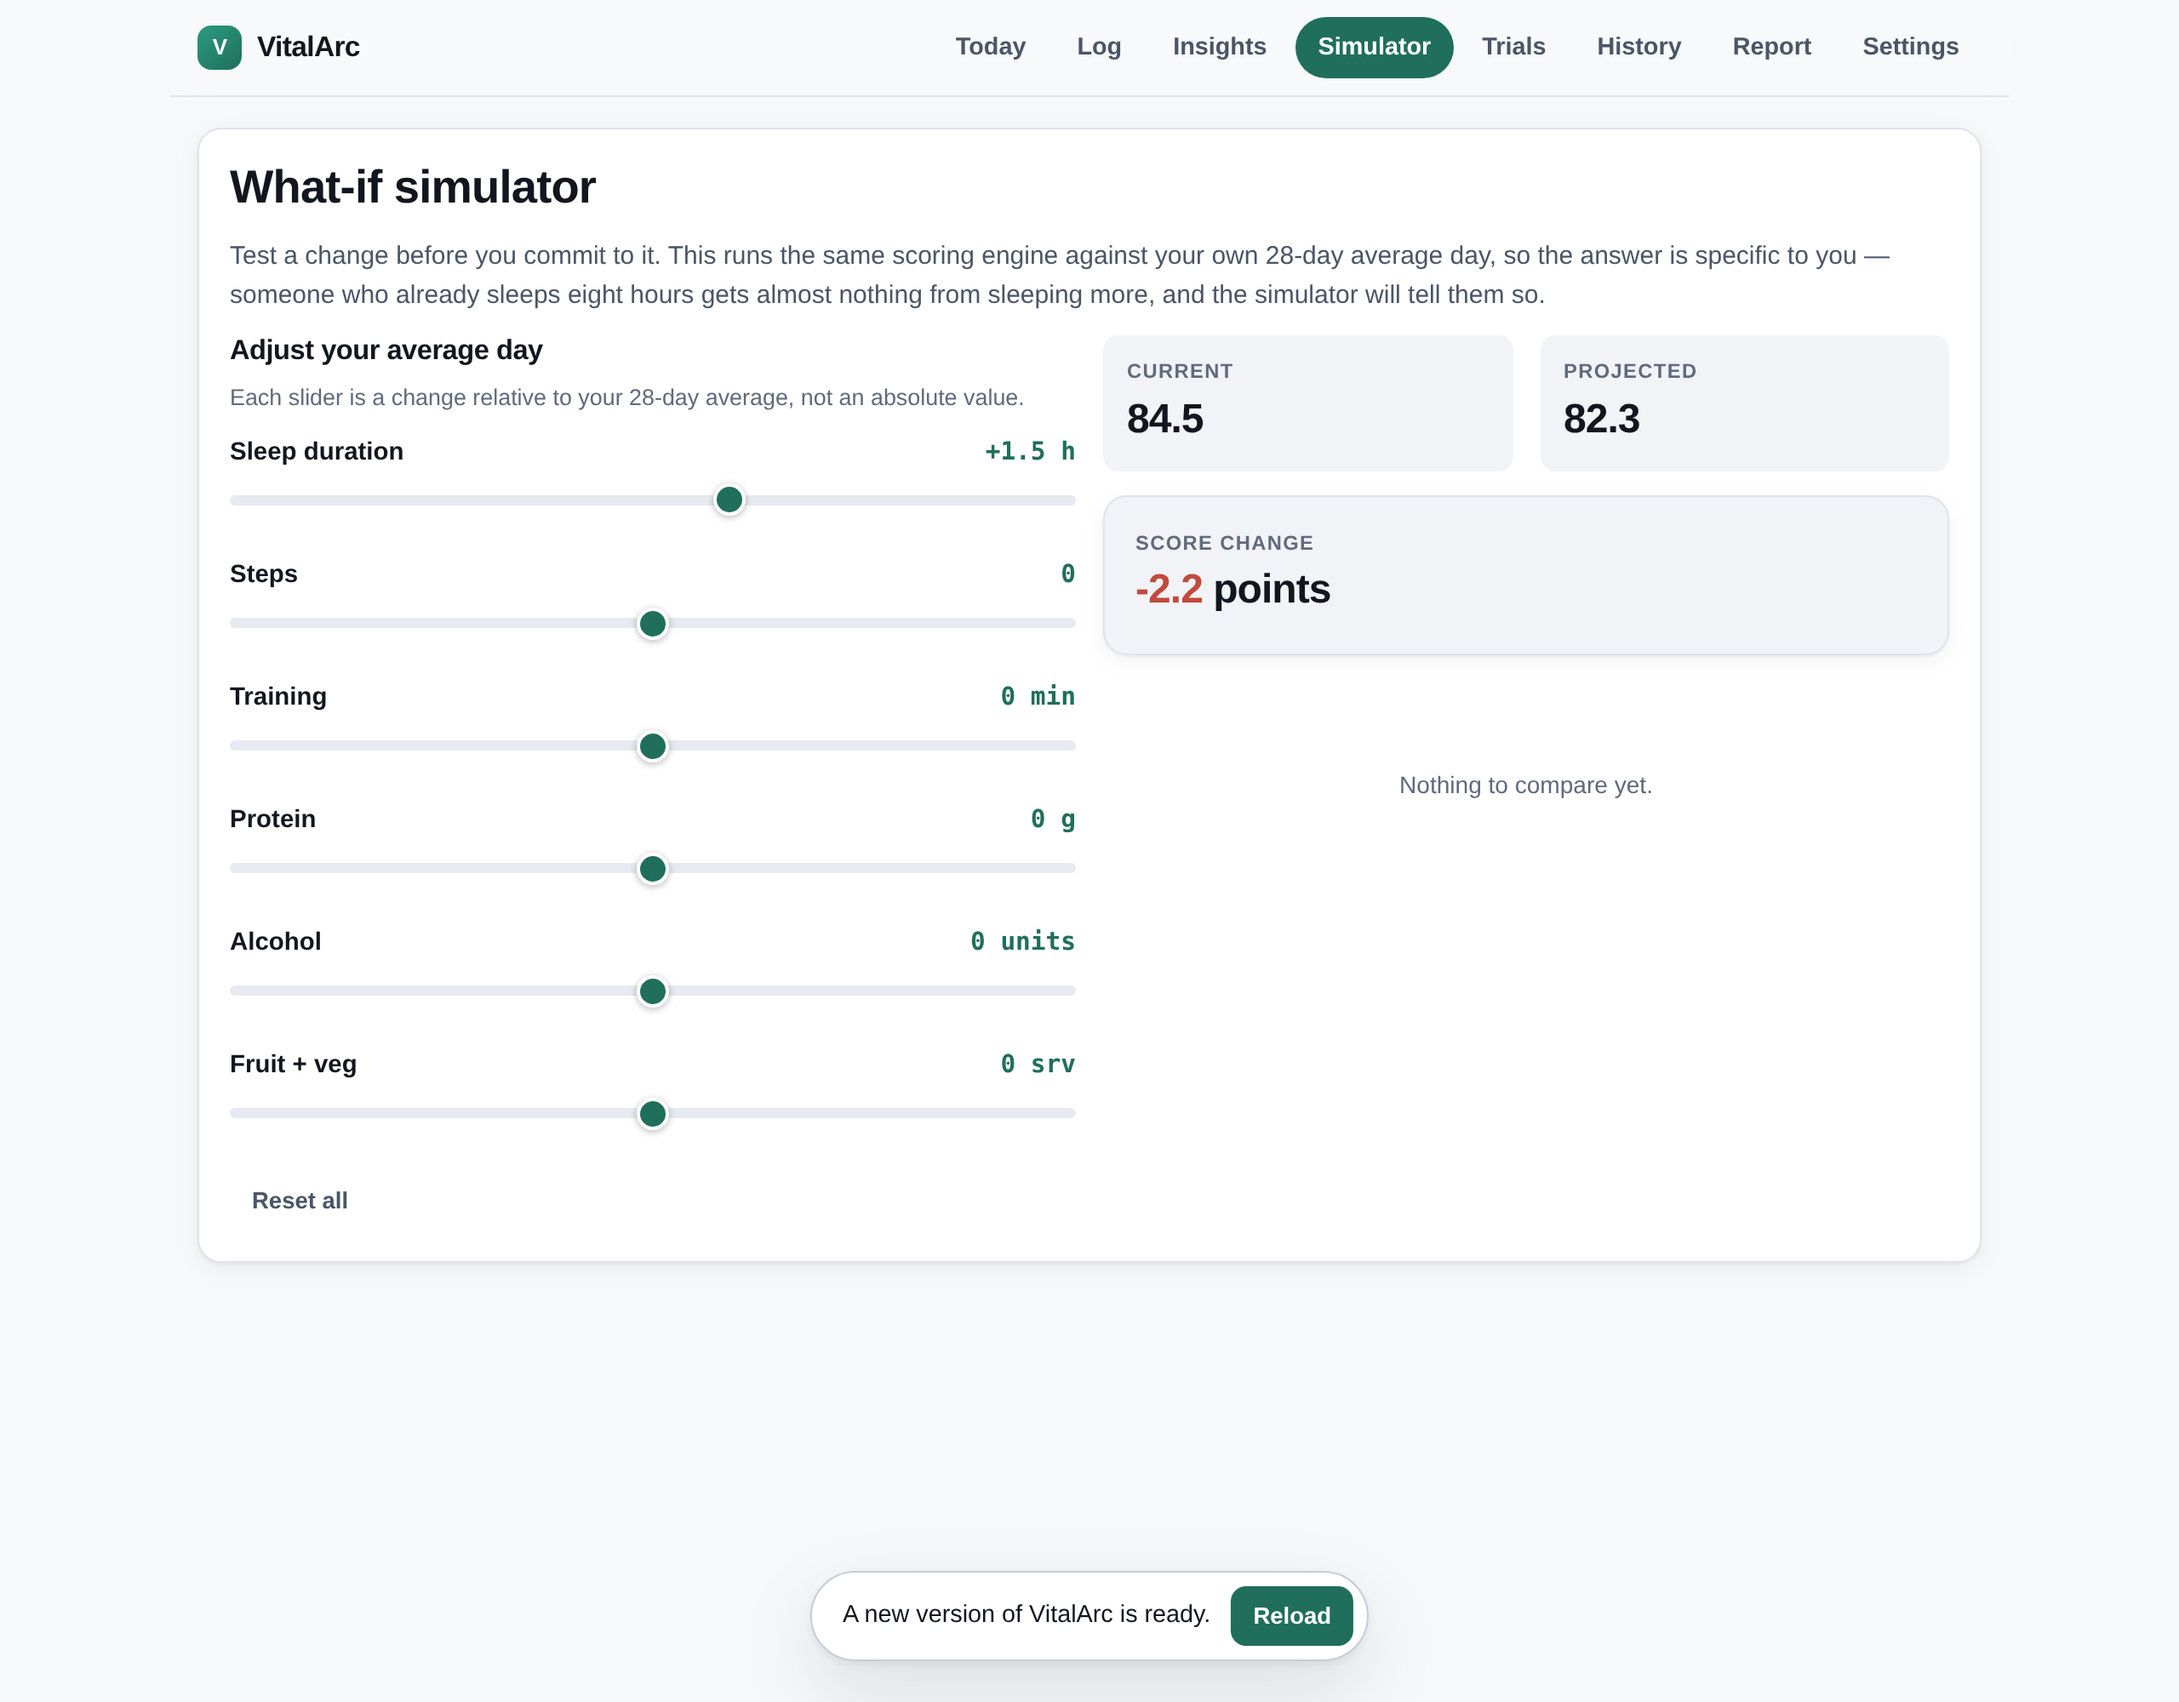
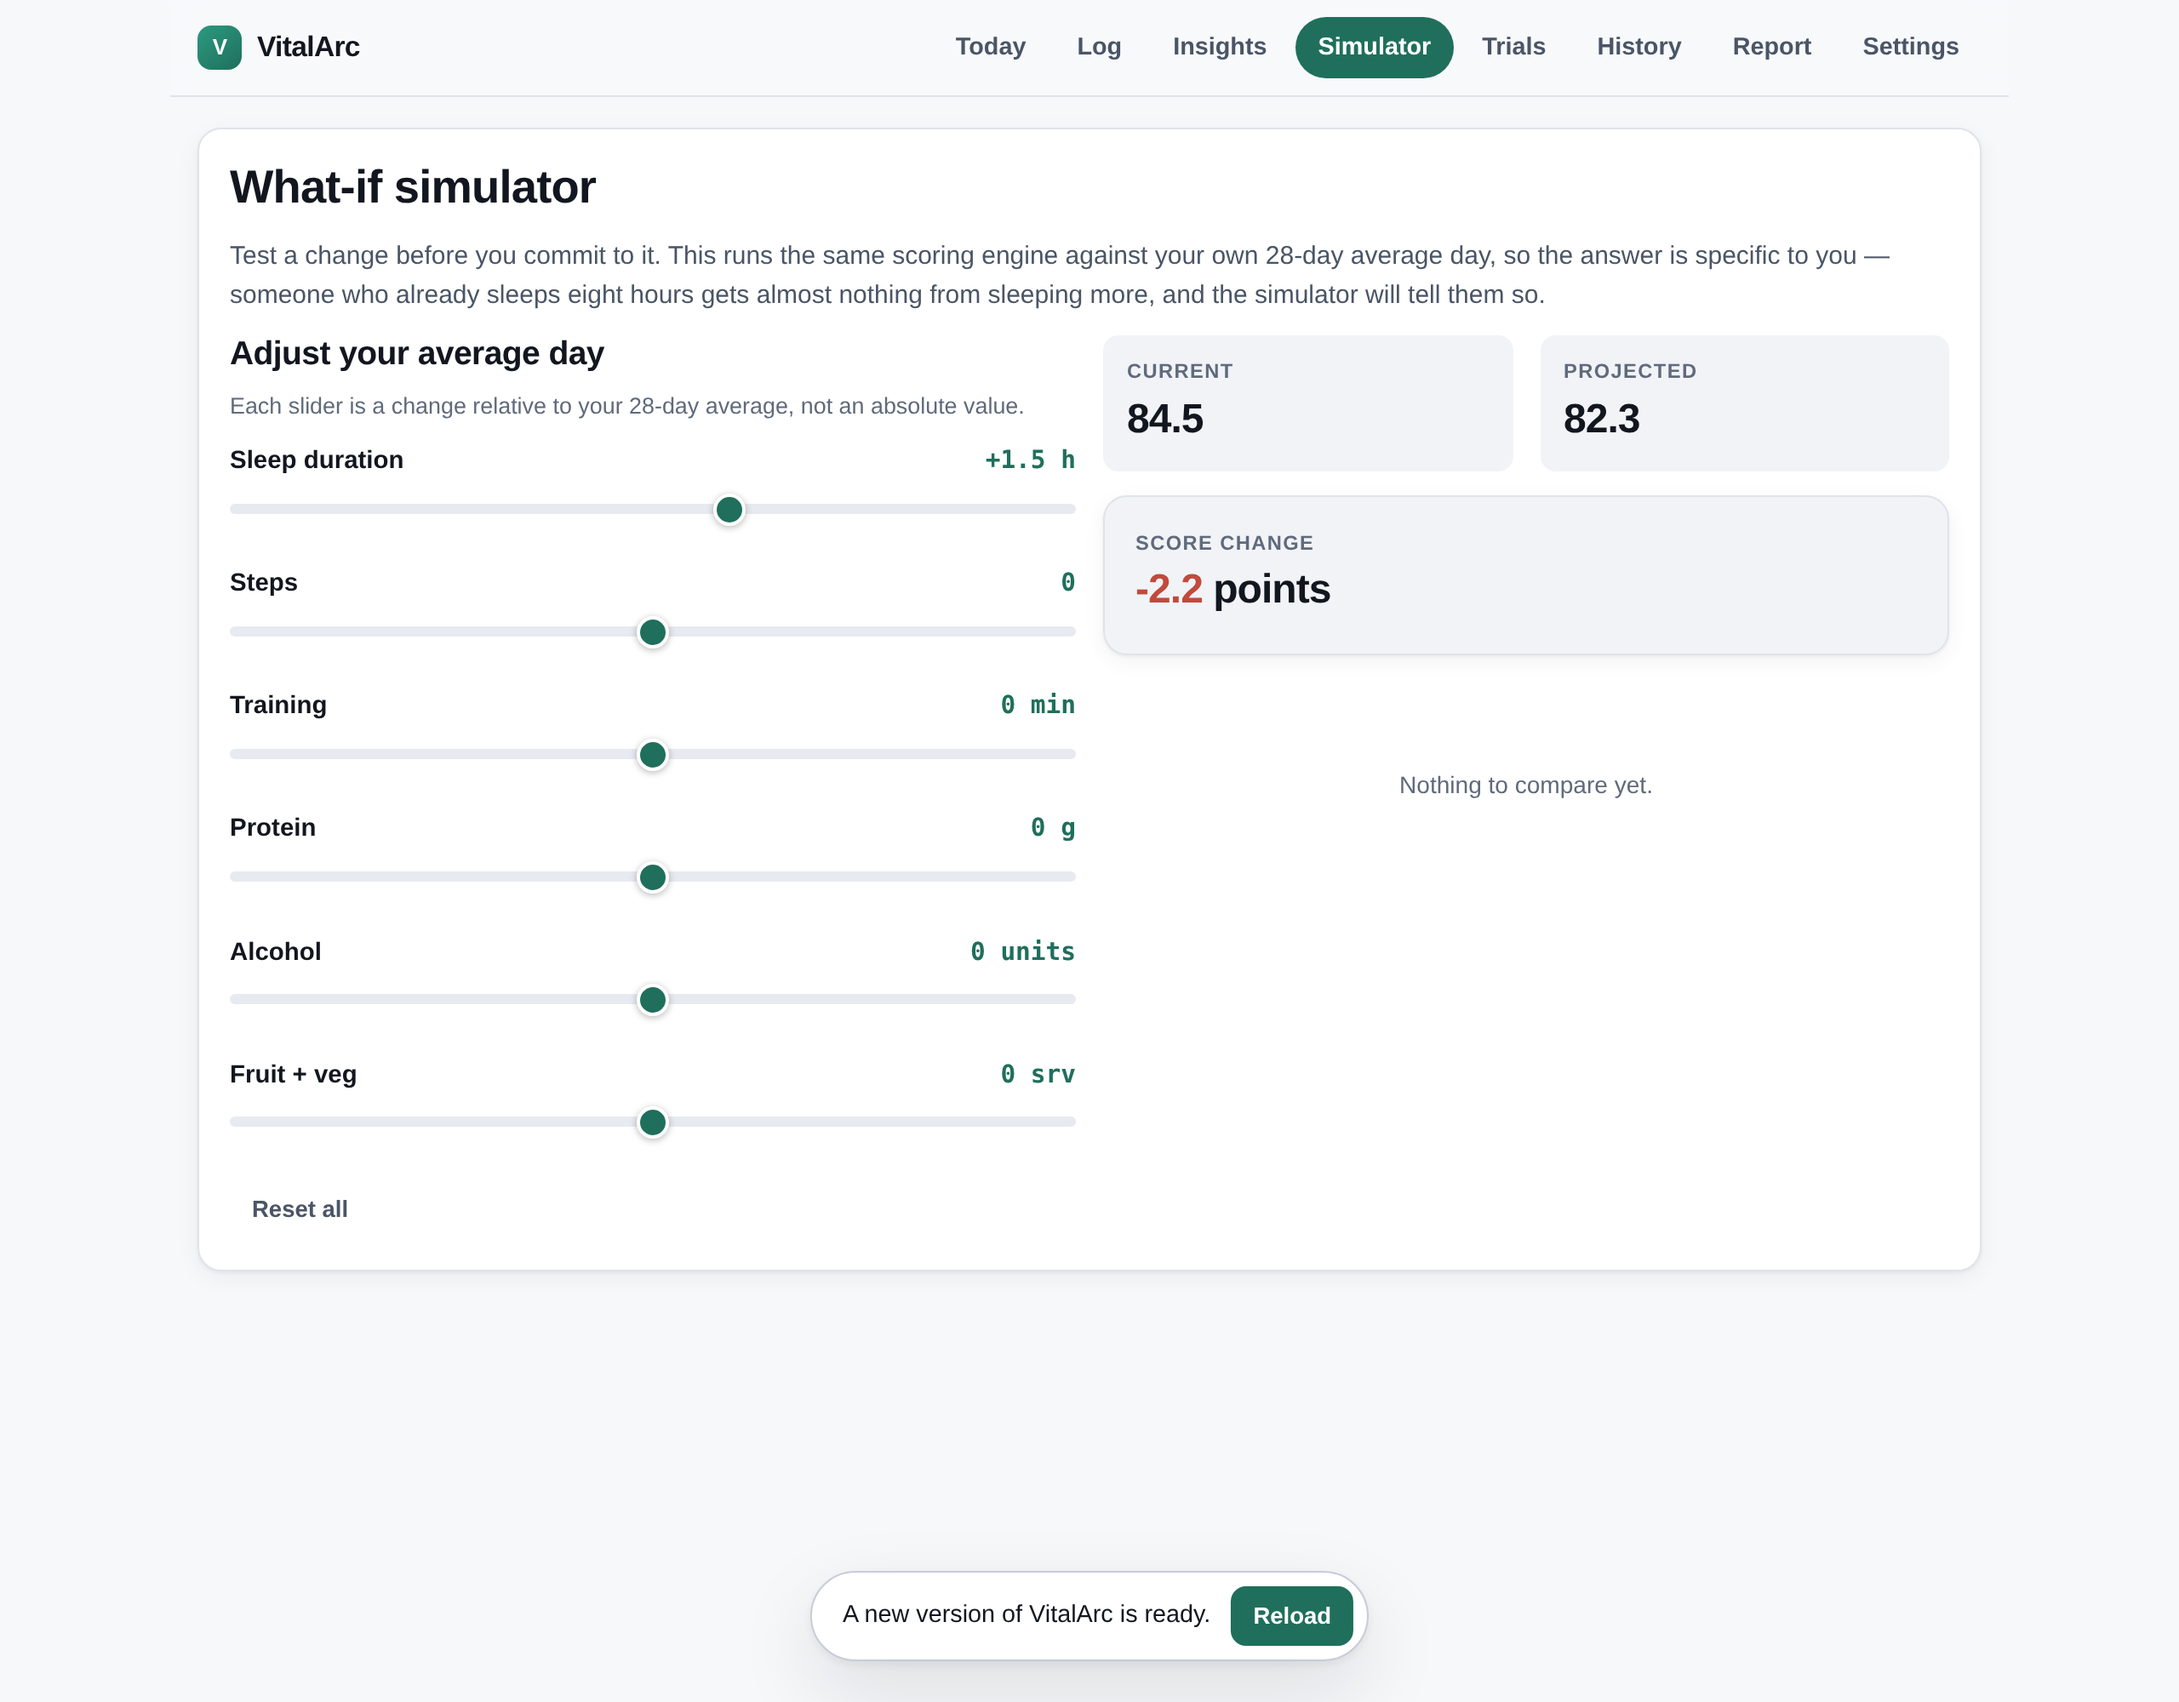
Give every view a heading outline someone can navigate
Screen-reader users move through a page by heading. Log and Settings both went
straight from the page h1 to h3 card titles, presenting every section as nested
under something that was not there, and the Today view opened with two h3 cards
before its h2 ones — the same defect in a different shape. The simulator did it
too.

Card-level headings on those views are h2, matching what insights, trials and
the report already did. The visual change is small and, in the symptom cards on
Today, an improvement.

The rest of the audit came back clean, which is worth recording: every chart
carries role="img" with an aria-label, title and desc, and all 70 controls on
the log screen have accessible names.

Guarded end-to-end across all eight views, checking both that no level is
skipped and that a view does not open at a level deeper than the sections
following it — the Today case, which a skipped-level check alone misses.

Claude-Session: https://claude.ai/code/session_01UTmsayvLGNeYws4i3wNM73

diff --git a/app/js/ui.js b/app/js/ui.js
@@ -127,7 +127,7 @@ function symptomCard(state, symptoms) {
         : `Compared with the ${TREND_WINDOW} logged days before, tested by shuffling which window each day belongs to (p = ${fmtP(trend.p)}).`)
       : '';
     return `<div class="card" style="margin:0">
-      <div class="card-head"><h3 style="margin:0">${esc(sym.label)}</h3><div class="spacer"></div>
+      <div class="card-head"><h2 style="margin:0">${esc(sym.label)}</h2><div class="spacer"></div>
         ${dir ? `<span class="pill ${dir === 'better' ? 'pill-good' : dir === 'worse' ? 'pill-bad' : 'pill-info'}"${dirTitle ? ` title="${esc(dirTitle)}"` : ''}>${esc(dirLabel)}</span>` : ''}</div>
       <p class="muted" style="margin-bottom:8px">
         ${vals.length ? `Some of it on <strong>${anyDays}</strong> of your last ${vals.length} logged days.`
@@ -274,7 +274,7 @@ export function logView(state) {
     if (!fields.length) return '';
     const inner = fields.map(([name, f]) => fieldControl(name, f, entry[name])).join('');
     return `<div class="card">
-      <div class="card-head"><h3>${esc(g.label)}</h3></div>
+      <div class="card-head"><h2>${esc(g.label)}</h2></div>
       ${inner}
     </div>`;
   }).join('');
@@ -330,7 +330,7 @@ function symptomLogCard(state) {
   const active = (state.symptoms || []).filter((s) => !s.archivedAt);
   if (!active.length) {
     return `<div class="card">
-      <div class="card-head"><h3>Symptoms</h3></div>
+      <div class="card-head"><h2>Symptoms</h2></div>
       <p class="muted">Nothing tracked yet. If something specific brought you here — headaches,
       gut trouble, joint pain, low mood, whatever it is — name it and this will try to work out
       what moves with it.</p>
@@ -349,7 +349,7 @@ function symptomLogCard(state) {
     </div>`;
   }).join('');
   return `<div class="card">
-    <div class="card-head"><h3>Symptoms</h3><div class="spacer"></div>
+    <div class="card-head"><h2>Symptoms</h2><div class="spacer"></div>
       <span class="subtle">Left alone means you didn't have it</span></div>
     ${rows}
   </div>`;
@@ -367,7 +367,7 @@ function factorLogCard(state) {
   const active = (state.factors || []).filter((f) => !f.archivedAt);
   if (!active.length) {
     return `<div class="card">
-      <div class="card-head"><h3>Things you suspect</h3></div>
+      <div class="card-head"><h2>Things you suspect</h2></div>
       <p class="muted">If you have a hunch — dairy, a warm bedroom, screen time late, a long
       commute — track it here and the app will check whether your log agrees with you. The
       built-in habits below are a guess at what matters for most people; this is for what
@@ -387,7 +387,7 @@ function factorLogCard(state) {
     </div>`;
   }).join('');
   return `<div class="card">
-    <div class="card-head"><h3>Things you suspect</h3><div class="spacer"></div>
+    <div class="card-head"><h2>Things you suspect</h2><div class="spacer"></div>
       <span class="subtle">Left alone means none of it</span></div>
     ${rows}
   </div>`;
@@ -629,7 +629,7 @@ export function simulatorView(state) {
   const inner = `
     <div class="grid grid-2">
       <div>
-        <h3>Adjust your average day</h3>
+        <h2>Adjust your average day</h2>
         <p class="subtle">Each slider is a change relative to your 28-day average, not an absolute value.</p>
         ${sliders}
         <button class="btn btn-ghost btn-sm" data-action="reset-sim">Reset all</button>
@@ -998,7 +998,7 @@ export function settingsView(state) {
   </div>
 
   <div class="card">
-    <div class="card-head"><h3>Things you suspect</h3></div>
+    <div class="card-head"><h2>Things you suspect</h2></div>
     <p class="muted">The twenty habits this app tracks by default are a guess at what matters for
     most people. If your hunch is dairy, a stuffy bedroom, or the days you drive to work, add it
     here — it goes into the analysis exactly like the built-in ones, and can be tested properly
@@ -1019,7 +1019,7 @@ export function settingsView(state) {
   </div>
 
   <div class="card">
-    <div class="card-head"><h3>What you're tracking</h3></div>
+    <div class="card-head"><h2>What you're tracking</h2></div>
     <p class="muted">Name the things that actually bother you, in your own words. They get rated
     on the log screen each day, and the analysis goes looking for whatever moves with them.</p>
     ${symptomRows}
@@ -1034,7 +1034,7 @@ export function settingsView(state) {
   </div>
 
   <div class="card">
-    <h3>About you</h3>
+    <h2>About you</h2>
     <div class="grid grid-2">
       <div class="field"><div class="field-head"><label for="p-age">Age</label></div>
         <input type="number" id="p-age" data-profile="age" min="13" max="110" value="${esc(String(p.age ?? 35))}"></div>
@@ -1048,14 +1048,14 @@ export function settingsView(state) {
   </div>
 
   <div class="card">
-    <h3>Appearance</h3>
+    <h2>Appearance</h2>
     <div class="seg" style="max-width:340px">
       ${['system', 'light', 'dark'].map((t) => `<button type="button" data-theme-set="${t}" aria-pressed="${state.theme === t}">${t[0].toUpperCase() + t.slice(1)}</button>`).join('')}
     </div>
   </div>
 
   <div class="card">
-    <h3>Your data</h3>
+    <h2>Your data</h2>
     <p class="muted">Everything you log is stored on this device only. There is no account, no server copy, and
     no analytics on your health data. That's why export matters — it's your only backup.</p>
     <div style="display:flex;gap:9px;flex-wrap:wrap">
@@ -1070,7 +1070,7 @@ export function settingsView(state) {
   </div>
 
   <div class="card">
-    <h3>About the science</h3>
+    <h2>About the science</h2>
     <p class="muted">The scoring curves, their sources, and the statistical method behind insights are documented
     in full rather than hidden. You should be able to argue with your own score.</p>
     <p class="disclaimer">VitalArc is a wellness tool, not a medical device. It does not diagnose, treat, cure or

diff --git a/app/sw.js b/app/sw.js
@@ -28,7 +28,7 @@
  * `npm run stamp-sw` writes a content hash of the shell into the line below,
  * and CI fails if it is stale — so this cannot be forgotten.
  */
-const VERSION = 'vitalarc-c84f49bd2dcb1b54';   // stamped by scripts/stamp-sw.mjs
+const VERSION = 'vitalarc-f9138ec5b016bcf7';   // stamped by scripts/stamp-sw.mjs
 const SHELL = [
   './', './index.html', './css/app.css',
   './js/app.js', './js/ui.js', './js/engine.js', './js/insights.js',
